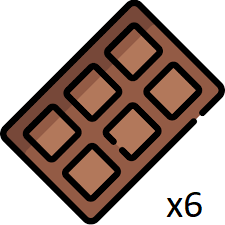
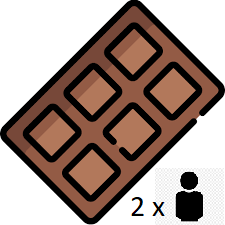
Use const and update chocolate collector goal

Changed region(s): [[0.56, 0.7467, 0.9022, 0.9956]]

diff --git a/cookie-grab.js b/cookie-grab.js
@@ -42,7 +42,7 @@ const validCardsForGoal = {
 };
 
 const requiredCardCount = {
-    "chocolate-collector": 6,
+    "chocolate-collector": numPlayers * 2,
     "peanut-butter-collector": numPlayers,
     "sugar-collector": numPlayers,
     "unique-collector": 7,
@@ -55,8 +55,8 @@ function createTooltip(name) {
 }
 
 function createDeck() {
-    let deck = [];
-    let available = [];
+    const deck = [];
+    const available = [];
     for (let i = 0; i < cookieTypes.length; i++) {
         for (let j = 0; j < numPlayers; j++) {
             available.push(cookieTypes[i]);
@@ -71,8 +71,8 @@ function createDeck() {
 }
 
 function dealDeck(deck) {
-    let piles = [];
-    let pileSize = deck.length / 4;
+    const piles = [];
+    const pileSize = deck.length / 4;
     for (let pile = 0; pile < 4; pile++) {
         // deal 1/4 of the deck into each pile
         piles.push(deck.slice(pile * pileSize, (pile + 1) * pileSize));
@@ -83,9 +83,9 @@ function dealDeck(deck) {
 function flipTopCardOfPile(pileNumber, pileContents) {
     // get element
     const elementId = `available${pileNumber + 1}`;
-    let element = document.getElementById(elementId);
+    const element = document.getElementById(elementId);
     // check top card of pile
-    let card = pileContents[0];
+    const card = pileContents[0];
     // flip it face-up
     element.innerHTML = `<img src="images/${card}.png" title="${createTooltip(card)}">`;
 }
@@ -98,7 +98,7 @@ function flipTopCardOfAllPiles(piles) {
 
 function replaceTopCardOfPile(pileNumber) {
     const elementId = `available${pileNumber + 1}`;
-    let element = document.getElementById(elementId);
+    const element = document.getElementById(elementId);
     if (deckPiles[pileNumber].length !== 0) {
         let card = deckPiles[pileNumber][0];
         element.innerHTML = `<img src="images/${card}.png" title="${createTooltip(card)}">`;
@@ -128,7 +128,7 @@ function drawCard(pile) {
 }
 
 function createHoards() {
-    let hoards = [];
+    const hoards = [];
     for (let i = 0; i < numPlayers; i++) {
         hoards.push([]);
     }
@@ -136,8 +136,8 @@ function createHoards() {
 }
 
 function assignGoals() {
-    let available = goals.slice().concat(goals.slice());
-    let theGoals = [];
+    const available = goals.slice().concat(goals.slice());
+    const theGoals = [];
     for (let i = 0; i < numPlayers; i++) {
         theGoals.push(chooseTwoDifferentGoals(available));
     }
@@ -170,7 +170,7 @@ function renderGoals(goals, playerNumber) {
 }
 
 function areAllPilesEmpty() {
-    for (let pile of deckPiles) {
+    for (const pile of deckPiles) {
         if (pile.length !== 0) {
             return false;
         }
@@ -181,7 +181,7 @@ function areAllPilesEmpty() {
 function scoreGame() {
     const eventLog = document.getElementById("log");
     eventLog.innerHTML += `Game over!\n`;
-    let scores = [];
+    const scores = [];
     for (let i = 0; i < numPlayers; i++) {
         scores.push(scorePlayer(i));
         eventLog.innerHTML += `Player ${i} scored ${scores[i]} points!\n`;
@@ -211,11 +211,11 @@ function evaluateGoal(goal, cards) {
         return count >= requiredCardCount[goal];
     }
     else if (goal === "unique-collector") {
-        let uniqueSet = new Set(cards)
+        const uniqueSet = new Set(cards)
         return uniqueSet.size >= requiredCardCount[goal];
     }
     else if (goal === "same-collector") {
-        let validSets = [];
+        const validSets = [];
         for (let card of cards) {
             let first = cards.indexOf(card);
             let last = cards.lastIndexOf(card);
